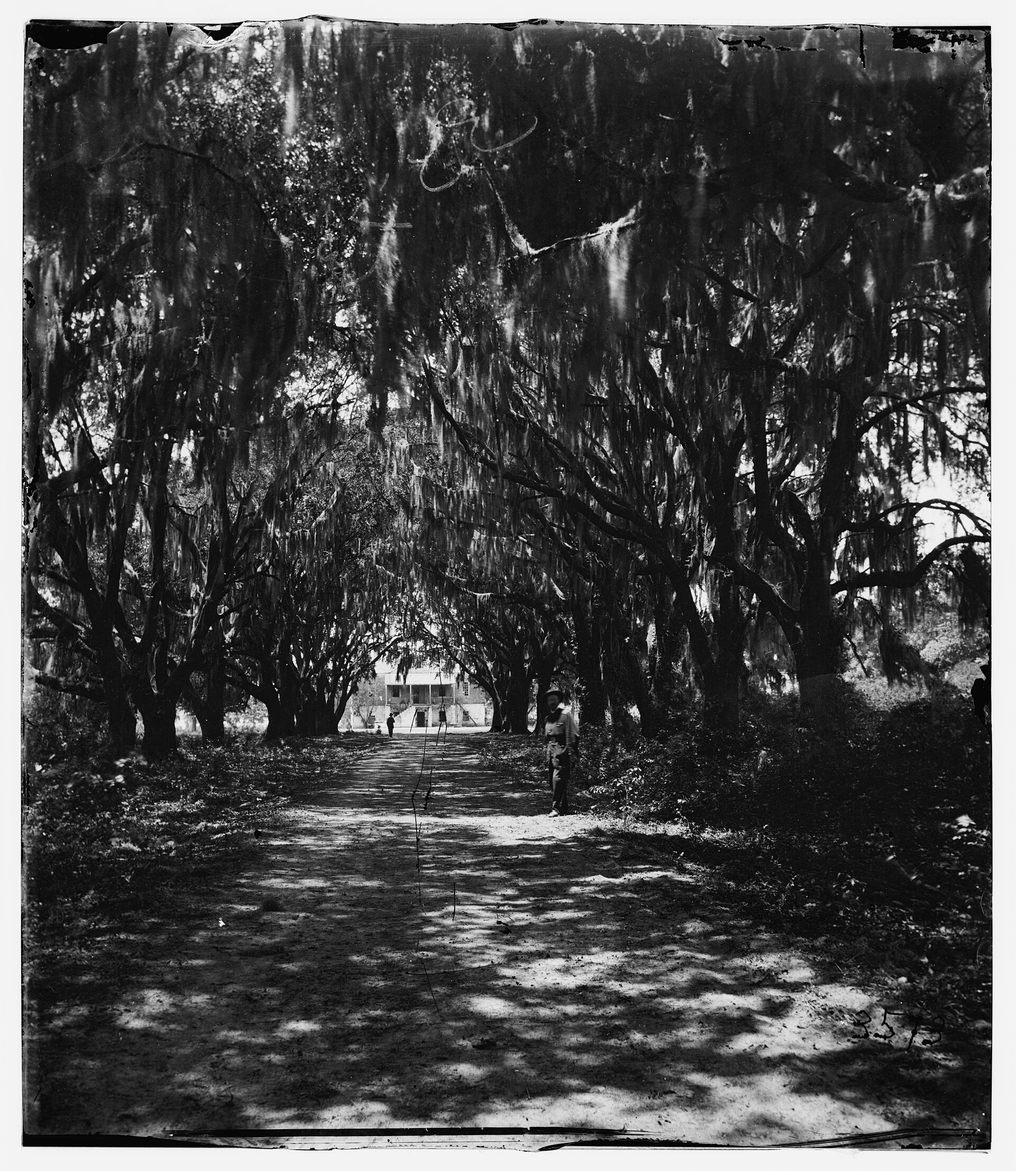
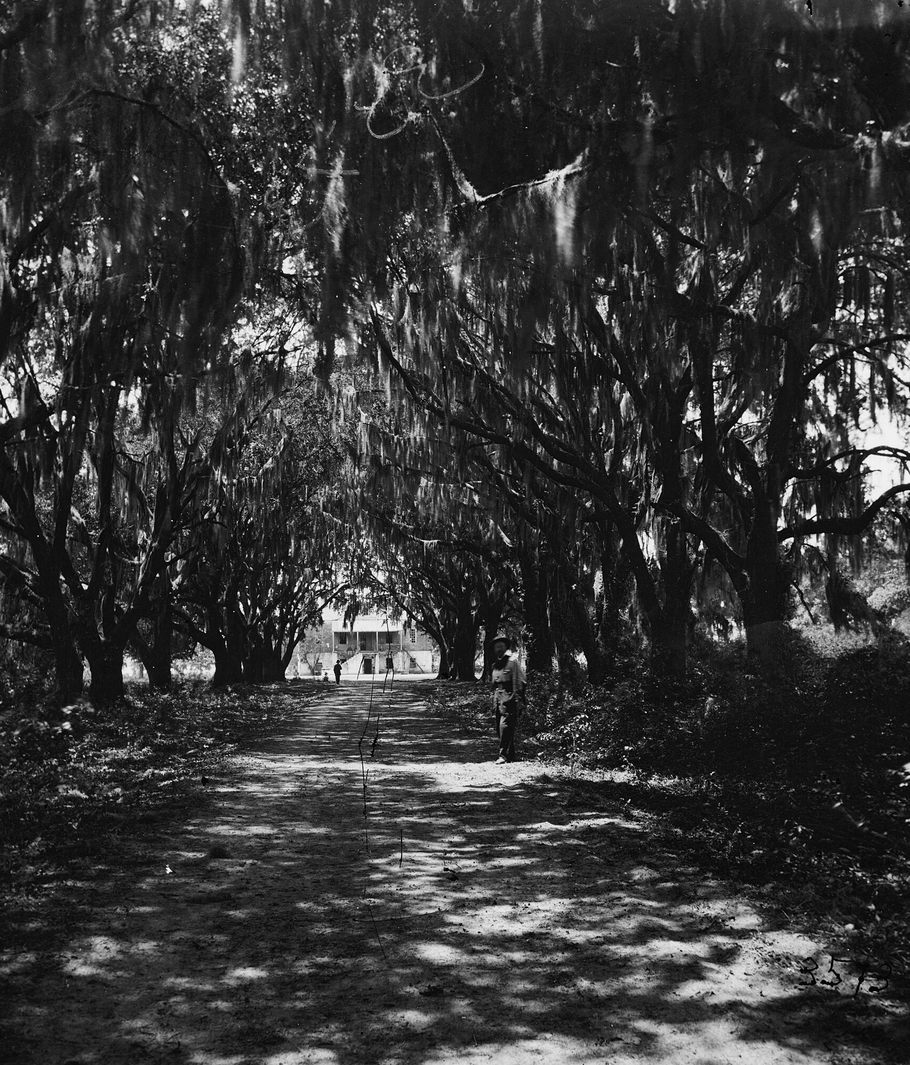
Blog hero: crop plate borders so photo fills full width; enlarge Meet John portrait

diff --git a/styles.css b/styles.css
@@ -537,7 +537,7 @@ section { padding: clamp(72px, 9vw, 130px) 0; }
   border-radius: calc(var(--radius) + 8px);
   overflow: hidden;
   display: grid;
-  grid-template-columns: 1.15fr 0.85fr;
+  grid-template-columns: 1fr 0.92fr;
   align-items: end;
 }
 .portrait-copy { padding: clamp(36px, 5vw, 72px); align-self: center; }
@@ -546,12 +546,12 @@ section { padding: clamp(72px, 9vw, 130px) 0; }
 .portrait-img-wrap {
   position: relative;
   align-self: end;
-  padding: clamp(20px, 3vw, 40px) clamp(20px, 3vw, 40px) 0;
+  padding: clamp(16px, 2vw, 28px) clamp(8px, 1.5vw, 20px) 0;
 }
 .portrait-img-wrap img {
   position: relative;
   width: 100%;
-  max-width: 380px;
+  max-width: 480px;
   margin: 0 auto;
   border-radius: 14px 14px 0 0;
 }
